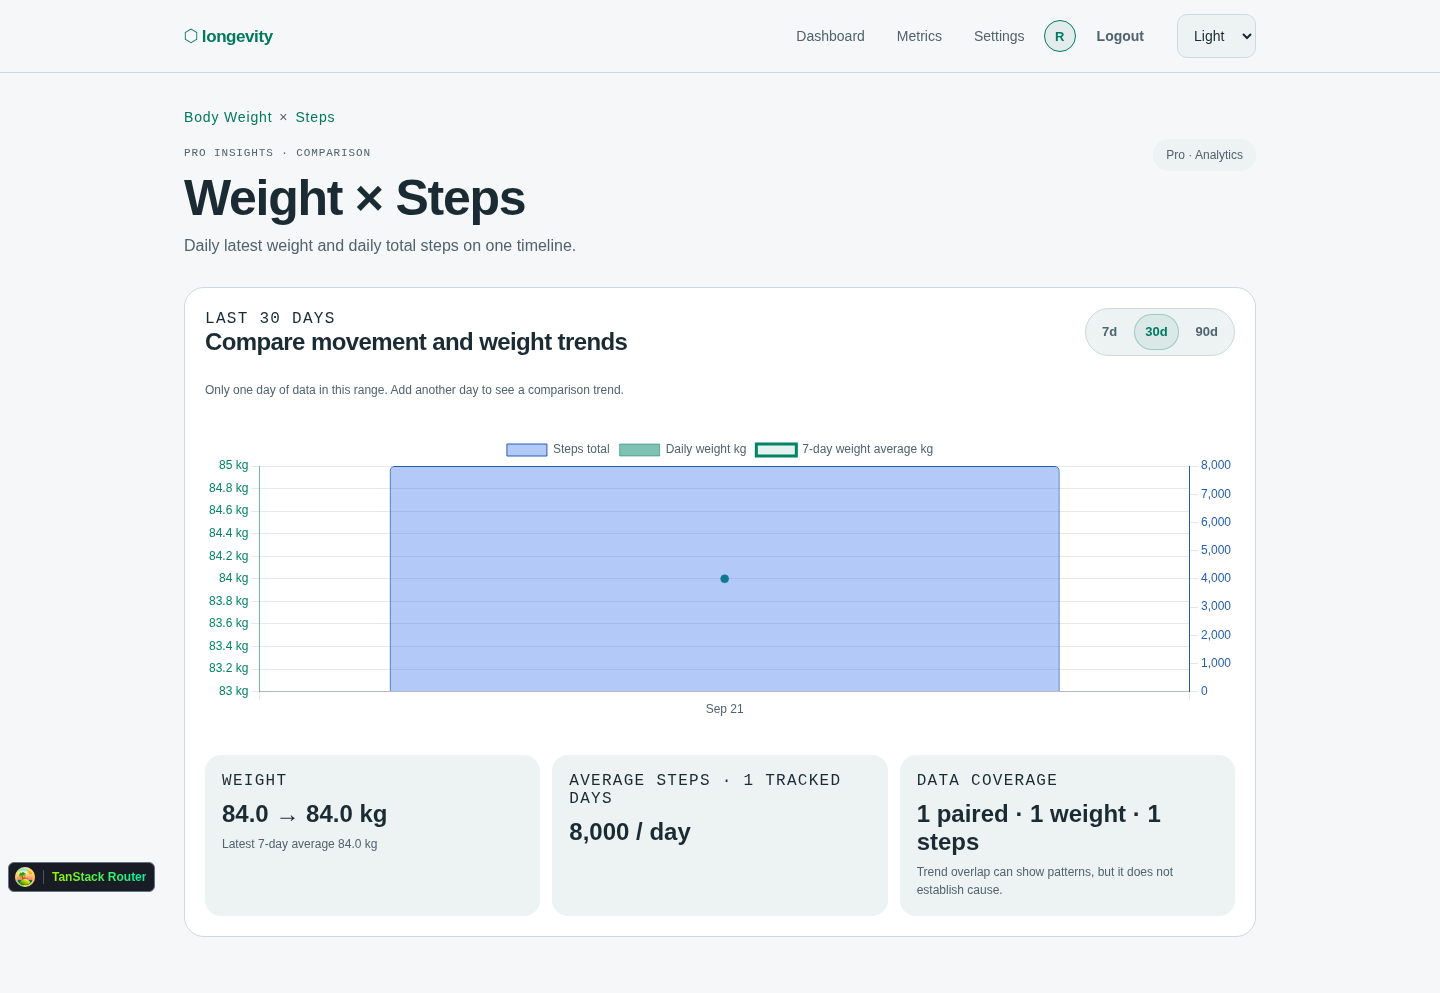
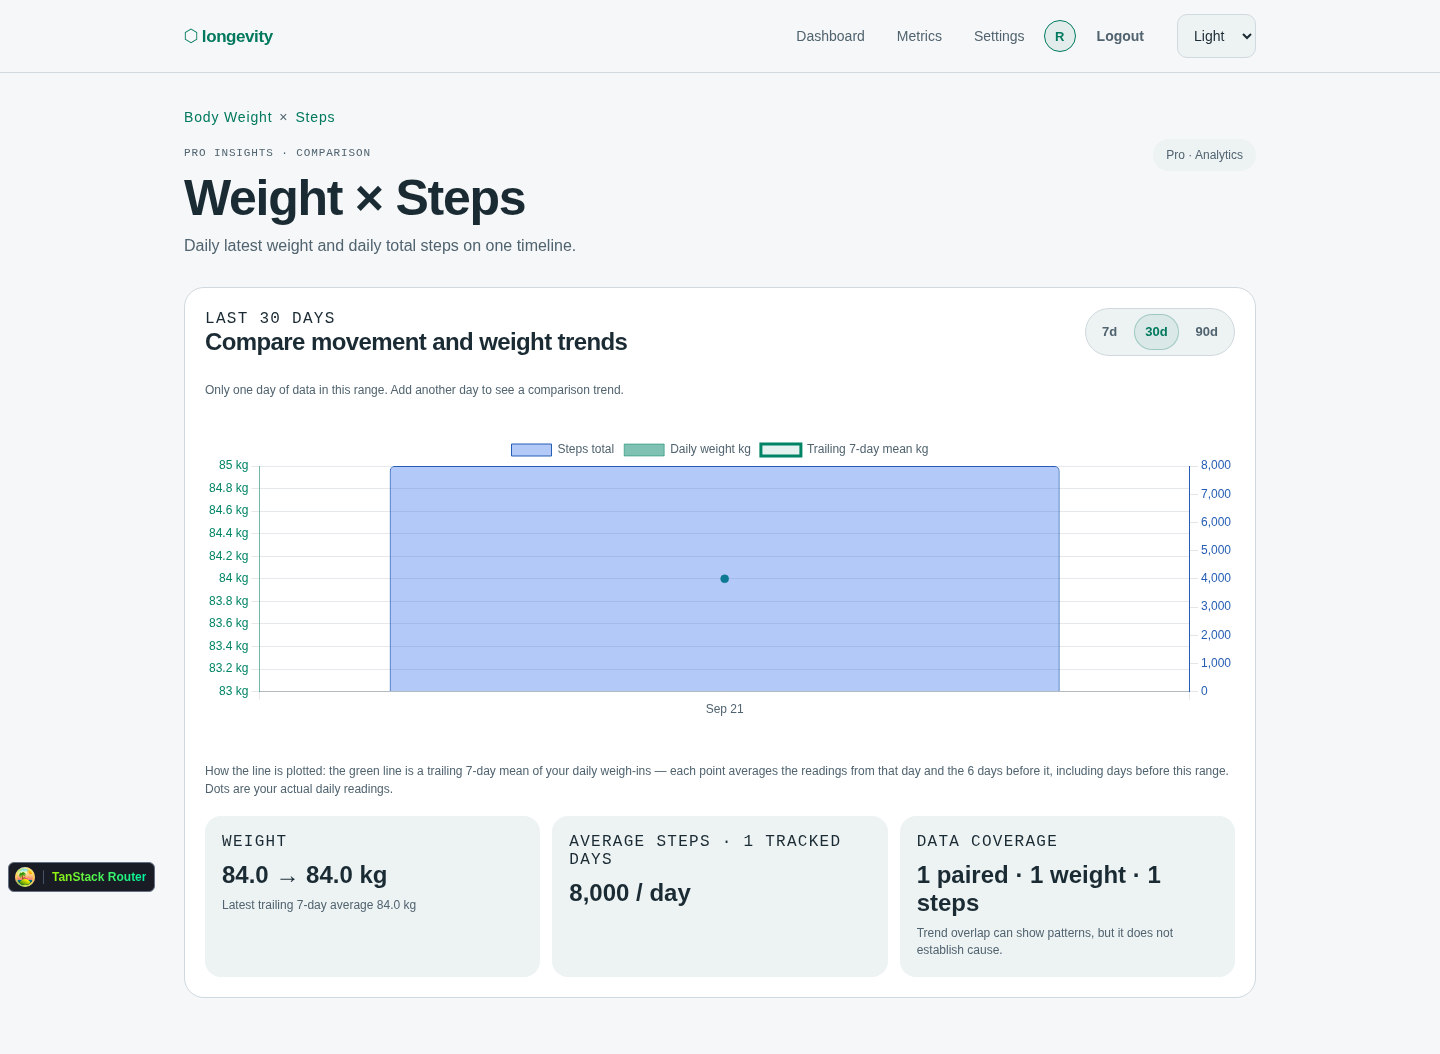
weght x steps

diff --git a/.lavish/ui-ux-review.html b/.lavish/ui-ux-review.html
@@ -69,7 +69,8 @@
     <h1>What the product looks like today, and what to fix first</h1>
     <p class="dim">Captured 2026-09-22 · 11 routes × dark / light / sand × desktop 1440px / mobile 390px = 66 mocked-API screenshots.
     Method: live code audit + Playwright captures against the dev server (no backend writes) + existing layout-suite results.
-    Annotate anything in this page or answer the triage forms at the bottom to queue follow-up work.</p>
+    <strong>Status update, afternoon 2026-09-22:</strong> all High and Medium findings below are fixed, tested, and re-captured —
+    every screenshot on this page is post-fix. Only the three Low items remain open. Annotate anything or use the triage forms at the bottom.</p>
   </header>
 
   <section>
@@ -98,15 +99,15 @@
   <section>
     <h2>2 · Verdict</h2>
     <div class="verdict">
-      <article><div class="n sev-high">2</div><p><strong>High</strong> — user-visible bugs worth a correctness slice (raw slugs, float axis labels).</p></article>
-      <article><div class="n sev-med">5</div><p><strong>Medium</strong> — polish / empty-state / rhythm issues, incl. the 13 failing layout tests.</p></article>
-      <article><div class="n sev-low">4</div><p><strong>Low / Info</strong> — doc drift, micro-copy, plus corrected H1 (devtools are prod-gated by the library itself).</p></article>
-      <article><div class="n sev-low">✓</div><p><strong>Solid</strong> — theme engine, dialog a11y, skeletons + reduced-motion, UTC discipline, Pro gating.</p></article>
+      <article><div class="n sev-low">7</div><p><strong>Fixed ✓</strong> — H2, H3, M1–M5 implemented TDD (red→green), verified by suites + re-captured screenshots.</p></article>
+      <article><div class="n sev-low">3</div><p><strong>Open (Low)</strong> — L1 doc drift, L2 day-cell abbreviations, L3 long-name button wrap.</p></article>
+      <article><div class="n sev-low">1</div><p><strong>Info</strong> — H1 corrected: Router devtools never ship to production (library-gated).</p></article>
+      <article><div class="n sev-low">✓</div><p><strong>Verified</strong> — vitest 51 files / 286 tests green · layout suite 23/23 green · tsc + eslint + prettier clean.</p></article>
     </div>
   </section>
 
   <section>
-    <h2>3 · Findings (annotate any row to discuss it)</h2>
+    <h2>3 · Findings (fixed rows describe the original report; annotate any row to discuss it)</h2>
     <div class="table-scroll"><table>
       <tr><th>Sev</th><th>View</th><th>Finding</th><th>Evidence</th></tr>
       <tr><td><span class="pill low">INFO</span></td><td>All pages (local dev only)</td>
@@ -115,25 +116,25 @@
         production/staging builds render nothing, as you noted. It only overlays local dev-server screens (and covered the Consistency link
         in mobile captures). Optional: gate explicitly in <code>__root.tsx:47</code> for cleaner local review screenshots; otherwise no action.</td>
         <td>node_modules/@tanstack/react-router-devtools/dist/esm/index.js:5; dashboard-dark-mobile.png (dev-only badge)</td></tr>
-      <tr><td><span class="pill high">HIGH</span></td><td>Weight × Steps</td>
+      <tr><td><span class="pill low">FIXED ✓</span></td><td>Weight × Steps</td>
         <td><strong>H2 · Breadcrumb leaks raw slugs.</strong> Shows <code>body_weight × steps</code> instead of “Body Weight × Steps”. Every other breadcrumb uses human names.</td>
         <td>analytics-weight-steps-dark-desktop.png</td></tr>
-      <tr><td><span class="pill high">HIGH</span></td><td>Metric detail (custom)</td>
+      <tr><td><span class="pill low">FIXED ✓</span></td><td>Metric detail (custom)</td>
         <td><strong>H3 · Y-axis float artifacts.</strong> A single score of 7 renders ticks <code>7.200000000000001 / 7.000000000000001 / 6.800000000000001…</code>. The known follow-up in <code>20-frontend-development.md</code> is confirmed live. Only body_weight is normalized; unknown/custom metrics are not.</td>
         <td>metric-custom-long-name-dark-mobile.png</td></tr>
-      <tr><td><span class="pill med">MED</span></td><td>All signed-in</td>
+      <tr><td><span class="pill low">FIXED ✓</span></td><td>All signed-in</td>
         <td><strong>M1 · 13 layout tests fail on title rhythm.</strong> <code>titleY</code> differs by ~36px between Dashboard and Metrics: breadcrumb / description / action slots shift the H1. Decide: relax the test to per-template rhythm, or reserve fixed slots in <code>PageHeader</code>.</td>
         <td>layout.spec.ts:246; dashboard vs metrics screenshots</td></tr>
-      <tr><td><span class="pill med">MED</span></td><td>Metric detail · Weight × Steps</td>
+      <tr><td><span class="pill low">FIXED ✓</span></td><td>Metric detail · Weight × Steps</td>
         <td><strong>M2 · Single-point charts look degenerate.</strong> One 84kg entry → y-axis 79–89kg with one dot, “84 TO 84 KG”, Oldest = Latest, Delta 0. Comparison shows one full-width bar and a 0–90kg weight axis despite the “axis focuses on observed range” doc claim.</td>
         <td>metric-body-weight-dark-desktop.png; analytics-weight-steps-dark-desktop.png</td></tr>
-      <tr><td><span class="pill med">MED</span></td><td>Login / Register (mobile)</td>
+      <tr><td><span class="pill low">FIXED ✓</span></td><td>Login / Register (mobile)</td>
         <td><strong>M3 · Large void above the auth card</strong> on tall viewports — the centered 440px panel starts mid-screen with ~250px of empty header space.</td>
         <td>login-dark-mobile.png</td></tr>
-      <tr><td><span class="pill med">MED</span></td><td>Settings</td>
+      <tr><td><span class="pill low">FIXED ✓</span></td><td>Settings</td>
         <td><strong>M4 · “No paid billing period yet.”</strong> renders as a large green headline inside an otherwise empty billing panel — reads like a celebration of missing data.</td>
         <td>settings-dark-desktop.png</td></tr>
-      <tr><td><span class="pill med">MED</span></td><td>Sleep Insights</td>
+      <tr><td><span class="pill low">FIXED ✓</span></td><td>Sleep Insights</td>
         <td><strong>M5 · Zero shortfall shouts “0h 00m”</strong> in huge orange alert type. Zero is the best outcome; consider neutral/green treatment or “On target”.</td>
         <td>analytics-sleep-dark-desktop.png</td></tr>
       <tr><td><span class="pill low">LOW</span></td><td>Dashboard</td>
@@ -147,6 +148,14 @@
         <td>metric-custom-long-name-dark-mobile.png</td></tr>
     </table></div>
     <div class="callout">
+      <strong>Fixed 2026-09-22 (TDD, 10 new tests):</strong> H2 human breadcrumb (<code>analytics.weight-steps.tsx</code>);
+      H3 <code>formatChartAxisTick()</code> + wiring in both chart components; M1 phantom breadcrumb row removed,
+      dashboard title unified, layout test groups <code>titleY</code> by header variant;
+      M2 single-day notes + enforced weight-axis min/max; M3 top-aligned auth layout;
+      M4 quiet billing-empty copy; M5 “No shortfall” hero. Reference docs updated
+      (<code>20-frontend-development.md</code>). Screenshots below are re-captured post-fix.
+    </div>
+    <div class="callout">
       <strong>What is genuinely good:</strong> three-theme engine with persistence + storage-failure fallback; native dialogs with focus containment, Escape, and pending-guards;
       loading skeletons that respect reduced-motion; consistent UTC handling with local-time sleep windows; Pro links hidden for Free <em>and</em> backend-enforced;
       consistency day-cells as keyboard-accessible deep links. Sand theme (new, brightest-theme complaint response) renders cleanly with no stray white cards.
@@ -159,30 +168,30 @@
     <h3>Dashboard — desktop vs mobile (dark)</h3>
     <div class="duo">
       <figure class="shot"><img src="ui-review-assets/dashboard-dark-desktop.png" alt="Dashboard desktop dark"><figcaption>Desktop: 3-up cards, inline Pro destinations, side-by-side Recent Entries. Calm and readable.</figcaption></figure>
-      <figure class="shot"><img src="ui-review-assets/dashboard-dark-mobile.png" alt="Dashboard mobile dark"><figcaption>Mobile: 2-up cards hold up; entries stack; devtools badge covers “Consistency →” (H1).</figcaption></figure>
+      <figure class="shot"><img src="ui-review-assets/dashboard-dark-mobile.png" alt="Dashboard mobile dark"><figcaption>Mobile: 2-up cards hold up; entries stack. The floating badge is the dev-server-only Router overlay (H1, info).</figcaption></figure>
     </div>
 
     <h3>Same dashboard in Sand — the “not too bright” theme works</h3>
     <figure class="shot"><img src="ui-review-assets/dashboard-sand-desktop.png" alt="Dashboard desktop sand"><figcaption>Oatmeal surfaces, brown controls, no white cards. Beige cards carry faint pastel tints (sleep lilac, steps mint) — check contrast of muted text on tinted cards.</figcaption></figure>
 
     <h3>Metrics catalog (dark desktop)</h3>
-    <figure class="shot"><img src="ui-review-assets/metrics-dark-desktop.png" alt="Metrics catalog"><figcaption>Clean rows, quota shown once, archived collapsed by default. This is the page the layout test trips on (M1): its H1 sits ~36px lower than Dashboard’s.</figcaption></figure>
+    <figure class="shot"><img src="ui-review-assets/metrics-dark-desktop.png" alt="Metrics catalog"><figcaption>Clean rows, quota shown once, archived collapsed by default. Post-fix, its H1 aligns with Dashboard (M1).</figcaption></figure>
 
     <h3>Metric detail — solid for Body Weight, broken ticks for custom metrics</h3>
     <div class="duo">
-      <figure class="shot"><img src="ui-review-assets/metric-body-weight-dark-desktop.png" alt="Body weight detail"><figcaption>Body Weight: breadcrumb, summary trio, range toggle above chart — all per spec. With one entry the chart is honest but empty (M2).</figcaption></figure>
-      <figure class="shot"><img src="ui-review-assets/metric-custom-long-name-dark-mobile.png" alt="Custom metric mobile"><figcaption>Custom score=7: y-axis shows 7.200000000000001-style ticks (H3). Hero button wraps to two lines (L3).</figcaption></figure>
+      <figure class="shot"><img src="ui-review-assets/metric-body-weight-dark-desktop.png" alt="Body weight detail"><figcaption>Body Weight: breadcrumb, summary trio, range toggle above chart — all per spec. Single-entry view now carries the honest one-day note (M2 fixed).</figcaption></figure>
+      <figure class="shot"><img src="ui-review-assets/metric-custom-long-name-dark-mobile.png" alt="Custom metric mobile"><figcaption>Post-fix: y-axis ticks are denoised via <span class="mono">formatChartAxisTick()</span> (H3 fixed). Hero button still wraps on very long names (L3, open).</figcaption></figure>
     </div>
 
     <h3>Pro analytics — Weight × Steps vs Sleep vs Consistency</h3>
-    <figure class="shot"><img src="ui-review-assets/analytics-weight-steps-dark-desktop.png" alt="Weight times steps"><figcaption>Note the raw-slug breadcrumb <span class="mono">body_weight × steps</span> (H2) and the single full-width bar with a 0–90kg axis (M2).</figcaption></figure>
-    <figure class="shot"><img src="ui-review-assets/analytics-sleep-dark-desktop.png" alt="Sleep insights"><figcaption>Target control, shortfall hero, nightly bars, local-time averages — strong page. “0h 00m” in alarm-orange for a perfect week (M5).</figcaption></figure>
+    <figure class="shot"><img src="ui-review-assets/analytics-weight-steps-dark-desktop.png" alt="Weight times steps"><figcaption>Post-fix: human breadcrumb “Body Weight × Steps” (H2), single-day note, and a focused 83–85 kg axis with the reading visible (M2).</figcaption></figure>
+    <figure class="shot"><img src="ui-review-assets/analytics-sleep-dark-desktop.png" alt="Sleep insights"><figcaption>Target control, shortfall hero, nightly bars, local-time averages — strong page. A perfect week now reads “No shortfall” in accent green (M5 fixed).</figcaption></figure>
     <figure class="shot"><img src="ui-review-assets/analytics-consistency-light-desktop.png" alt="Consistency light"><figcaption>Light theme holds up: coverage trio, per-metric presence rows, factual Needs-attention copy. Day glyphs are single letters (L2).</figcaption></figure>
 
     <h3>Settings + auth</h3>
-    <figure class="shot"><img src="ui-review-assets/settings-dark-desktop.png" alt="Settings"><figcaption>Capability pills, portal action, export panel — good. The billing panel’s “No paid billing period yet.” headline (M4) needs a quieter style.</figcaption></figure>
+    <figure class="shot"><img src="ui-review-assets/settings-dark-desktop.png" alt="Settings"><figcaption>Capability pills, portal action, export panel — good. The empty billing panel is now quiet muted copy (M4 fixed).</figcaption></figure>
     <div class="duo">
-      <figure class="shot"><img src="ui-review-assets/login-dark-mobile.png" alt="Login mobile"><figcaption>Focused card, good contrast — but a large void above it on tall screens (M3).</figcaption></figure>
+      <figure class="shot"><img src="ui-review-assets/login-dark-mobile.png" alt="Login mobile"><figcaption>Post-fix: card top-aligns with a capped offset — the tall-screen void is gone (M3).</figcaption></figure>
       <figure class="shot"><img src="ui-review-assets/login-light-desktop.png" alt="Login light desktop"><figcaption>Light theme auth. Same layout question as mobile, less severe.</figcaption></figure>
     </div>
   </section>
@@ -211,16 +220,17 @@
   </section>
 
   <section>
-    <h2>6 · Proposed next actions</h2>
+    <h2>6 · Remaining work</h2>
     <ol class="actions">
-      <li><strong>Correctness slice (approved):</strong> humanize Weight × Steps breadcrumb (H2), add axis-tick formatting for custom metrics (H3).</li>
-      <li><strong>Empty-state slice:</strong> single-point trend treatment (M2), quiet billing-panel empty copy (M4), zero-shortfall hero tone (M5).</li>
-      <li><strong>Rhythm slice:</strong> decide PageHeader slot policy and align the 13 failing layout assertions with it (M1); tighten auth vertical rhythm on tall mobile (M3).</li>
+      <li><strong>L1</strong> — reconcile the “sleep review prompt” wording in <code>10-wireframes-frontend-design.md</code> with the current three-link Pro Insights card.</li>
+      <li><strong>L2</strong> — consider two-letter weekday abbreviations in the Consistency presence grid.</li>
+      <li><strong>L3</strong> — confirm the two-line hero button on very long custom metric names is acceptable, or clamp it.</li>
+      <li><strong>Chore</strong> — commit the working tree (source + tests + docs + re-captured <code>.lavish</code> assets) when ready.</li>
     </ol>
   </section>
 
   <section>
-    <h2>7 · Your call — queue follow-up work</h2>
+    <h2>7 · Your call — remaining L-items and commit</h2>
     <form class="triage" data-lavish-question="triage" onsubmit="event.preventDefault(); const picked = Array.from(event.currentTarget.querySelectorAll('input[name=fix]:checked')).map(i => i.value); const note = document.getElementById('triage-note').textContent; const msg = picked.length ? 'Approved fixes: ' + picked.join(', ') + (note.trim() ? '. Note: ' + note.trim() : '') : 'No fixes approved yet'; window.lavish.queuePrompt(msg, { tag: 'triage', text: msg, element: event.currentTarget, data: { question: 'triage', answers: picked } }); document.getElementById('triage-status').textContent = 'Queued — press Send to Agent when ready.';">
       <fieldset>
         <legend>Which findings should become the next fix slice? (select, then queue)</legend>
@@ -252,7 +262,9 @@
 
   <footer>
     Scope: local frontend only, mocked-API captures (fixture: 4 metrics incl. long-name custom, 1 entry each, Pro plan). No cloud deployment, no DB writes.
-    Full set: 66 PNGs in <span class="mono">.lavish/ui-review-assets/</span>. Layout suite: 10 passed / 13 failed (titleY rhythm, <span class="mono">frontend/e2e/layout.spec.ts:246</span>).
+    Full set: 66 PNGs in <span class="mono">.lavish/ui-review-assets/</span> (re-captured post-fix).
+    Layout suite: 23 passed, 0 failed (<span class="mono">frontend/e2e/layout.spec.ts</span>).
+    Unit suite: 51 files / 286 tests passed. Uncommitted working-tree changes — no commit requested yet.
     Design source for this page: the product’s own dark tokens (option 2 — reviewing this product, so echoing its palette).
   </footer>
 

diff --git a/frontend/src/features/metrics/weight-steps-overlay-chart.tsx b/frontend/src/features/metrics/weight-steps-overlay-chart.tsx
@@ -104,13 +104,20 @@ export function WeightStepsOverlayChart({
           },
           {
             type: "line",
-            label: "7-day weight average kg",
+            label: "Trailing 7-day mean kg",
             data: series.map((point) => point.weight_7d_average_kg),
             borderColor: colors.line,
             backgroundColor: colors.fill,
             borderWidth: 3,
-            pointRadius: 0,
-            tension: 0.3,
+            // Hollow markers so the mean reads as its own series next to the
+            // solid daily-weight dots; straight segments so the line passes
+            // exactly through its markers instead of smoothed Bézier estimates.
+            pointBackgroundColor: colors.background,
+            pointBorderColor: colors.line,
+            pointBorderWidth: 2,
+            pointRadius: 3,
+            pointHoverRadius: 5,
+            tension: 0,
             spanGaps: false,
             yAxisID: "weight",
           },
@@ -165,7 +172,7 @@ export function WeightStepsOverlayChart({
 
   return (
     <div
-      aria-label="Daily body weight, seven-day weight average, and daily total steps chart"
+      aria-label="Daily body weight, trailing seven-day mean, and daily total steps chart"
       className="weight-steps-chart"
       role="img"
     >

diff --git a/frontend/src/routes/analytics.weight-steps.tsx b/frontend/src/routes/analytics.weight-steps.tsx
@@ -116,6 +116,12 @@ function WeightStepsRoute() {
               </p>
             ) : null}
             <WeightStepsOverlayChart series={analytics.series} />
+            <p className="weight-steps-note">
+              How the line is plotted: the green line is a trailing 7-day mean
+              of your daily weigh-ins — each point averages the readings from
+              that day and the 6 days before it, including days before this
+              range. Dots are your actual daily readings.
+            </p>
             <WeightStepsSummaryCards analytics={analytics} />
           </>
         )}
@@ -149,7 +155,8 @@ function WeightStepsSummaryCards({
             : `${formatWeight(summary.weight_start_kg)} → ${formatWeight(summary.weight_end_kg)} kg`}
         </p>
         <p className="weight-steps-note">
-          Latest 7-day average {formatOptionalWeight(latestRollingAverage)}
+          Latest trailing 7-day average{" "}
+          {formatOptionalWeight(latestRollingAverage)}
         </p>
       </article>
       <article>

diff --git a/frontend/src/features/metrics/weight-steps-overlay-chart.test.tsx b/frontend/src/features/metrics/weight-steps-overlay-chart.test.tsx
@@ -38,7 +38,7 @@ describe("WeightStepsOverlayChart", () => {
 
     expect(
       screen.getByRole("img", {
-        name: /daily body weight, seven-day weight average, and daily total steps/i,
+        name: /daily body weight, trailing seven-day mean, and daily total steps/i,
       }),
     ).toBeInTheDocument();
     expect(chartMock.mock.calls.at(-1)?.[0].data.labels).toEqual([
@@ -58,8 +58,10 @@ describe("WeightStepsOverlayChart", () => {
           showLine: false,
         }),
         expect.objectContaining({
-          label: "7-day weight average kg",
+          label: "Trailing 7-day mean kg",
           data: [84.8, 84.8, 84.7],
+          pointRadius: 3,
+          tension: 0,
         }),
       ]),
     );

diff --git a/frontend/src/test/weight-steps-route.test.tsx b/frontend/src/test/weight-steps-route.test.tsx
@@ -57,7 +57,10 @@ describe("weight and steps analytics route", () => {
     ).toBeInTheDocument();
     expect(screen.getByText("70.4 → 70.1 kg")).toBeInTheDocument();
     expect(
-      screen.getByText(/latest 7-day average 70\.3 kg/i),
+      screen.getByText(/latest trailing 7-day average 70\.3 kg/i),
+    ).toBeInTheDocument();
+    expect(
+      screen.getByText(/trailing 7-day mean of your daily weigh-ins/i),
     ).toBeInTheDocument();
     expect(screen.getByText("6,650 / day")).toBeInTheDocument();
     expect(useWeightStepsAnalyticsQuery).toHaveBeenCalledWith(30);

diff --git a/reference_docs/knowledge/20-frontend-development.md b/reference_docs/knowledge/20-frontend-development.md
@@ -146,7 +146,12 @@
   comparison prototype against a real server-side analytics contract. It
   supports 7, 30, and 90-day ranges. The dual-axis chart uses blue bars for
   daily Steps, subdued points for observed daily Weight, and a primary green
-  line for the server-computed seven-day rolling Weight average. Complete
+  line for the server-computed trailing seven-day mean of daily Weight (each
+  point averages that day plus the 6 days before it, including pre-range
+  lookback days). The mean renders with hollow markers and straight segments
+  so it visibly passes through its own points next to the solid daily-weight
+  dots. The page states this plotting rule in a short explainer so
+  the line is not mistaken for a fit through the dots. Complete
   calendar rows preserve missing-day spacing, the Weight axis focuses on the
   observed range, and summary cards distinguish paired, Weight, and Steps
   coverage. Loading, empty, and error states remain accessible.
